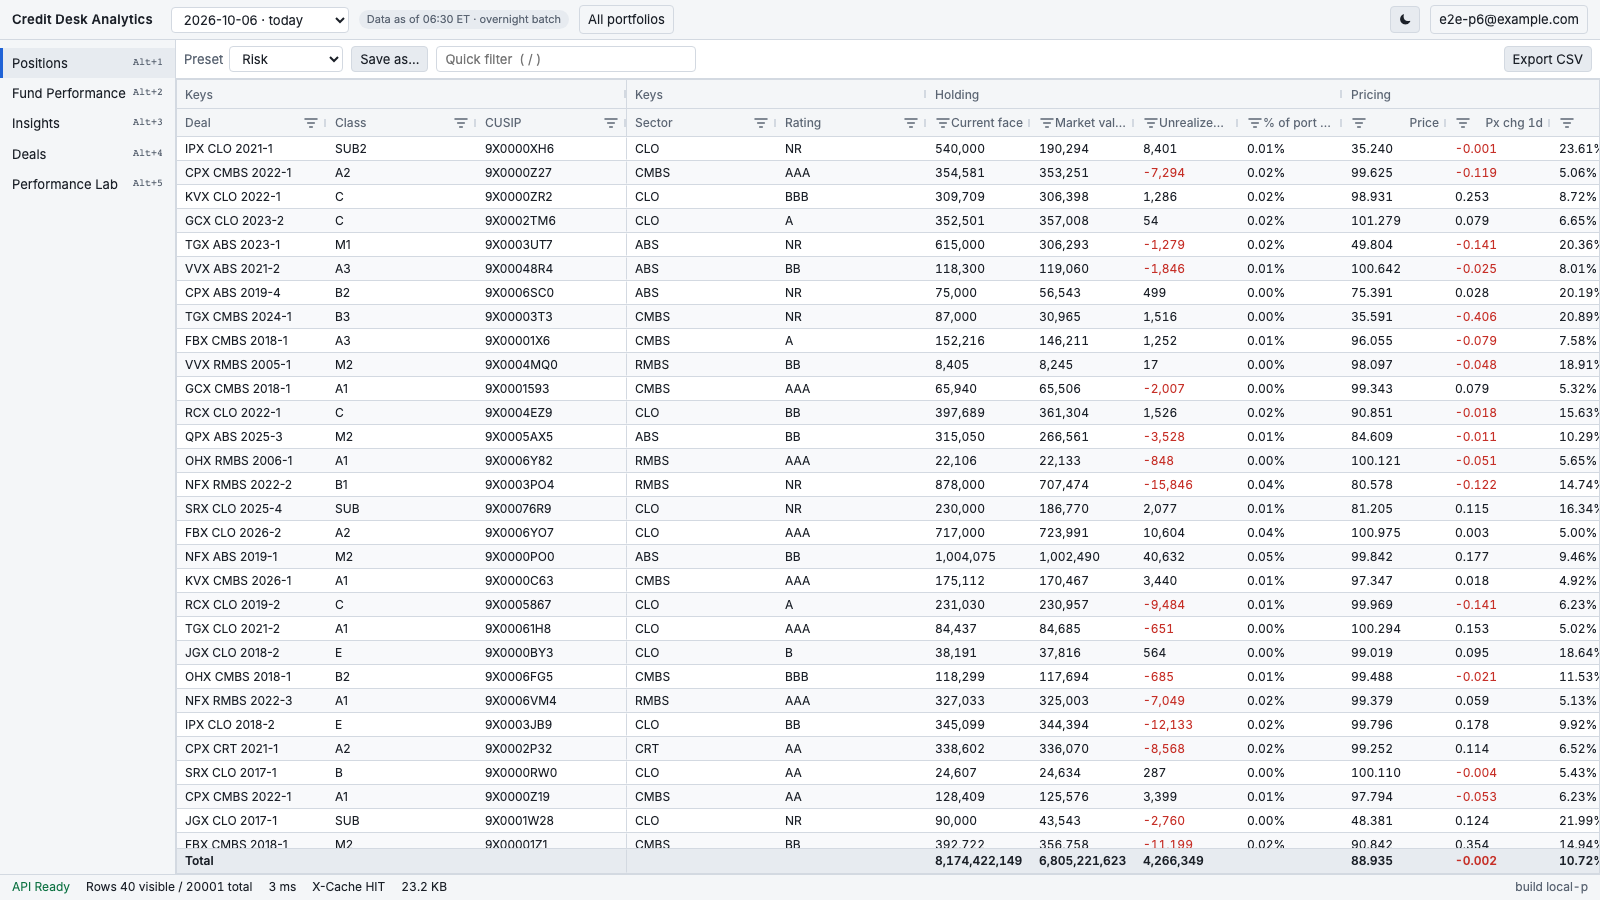
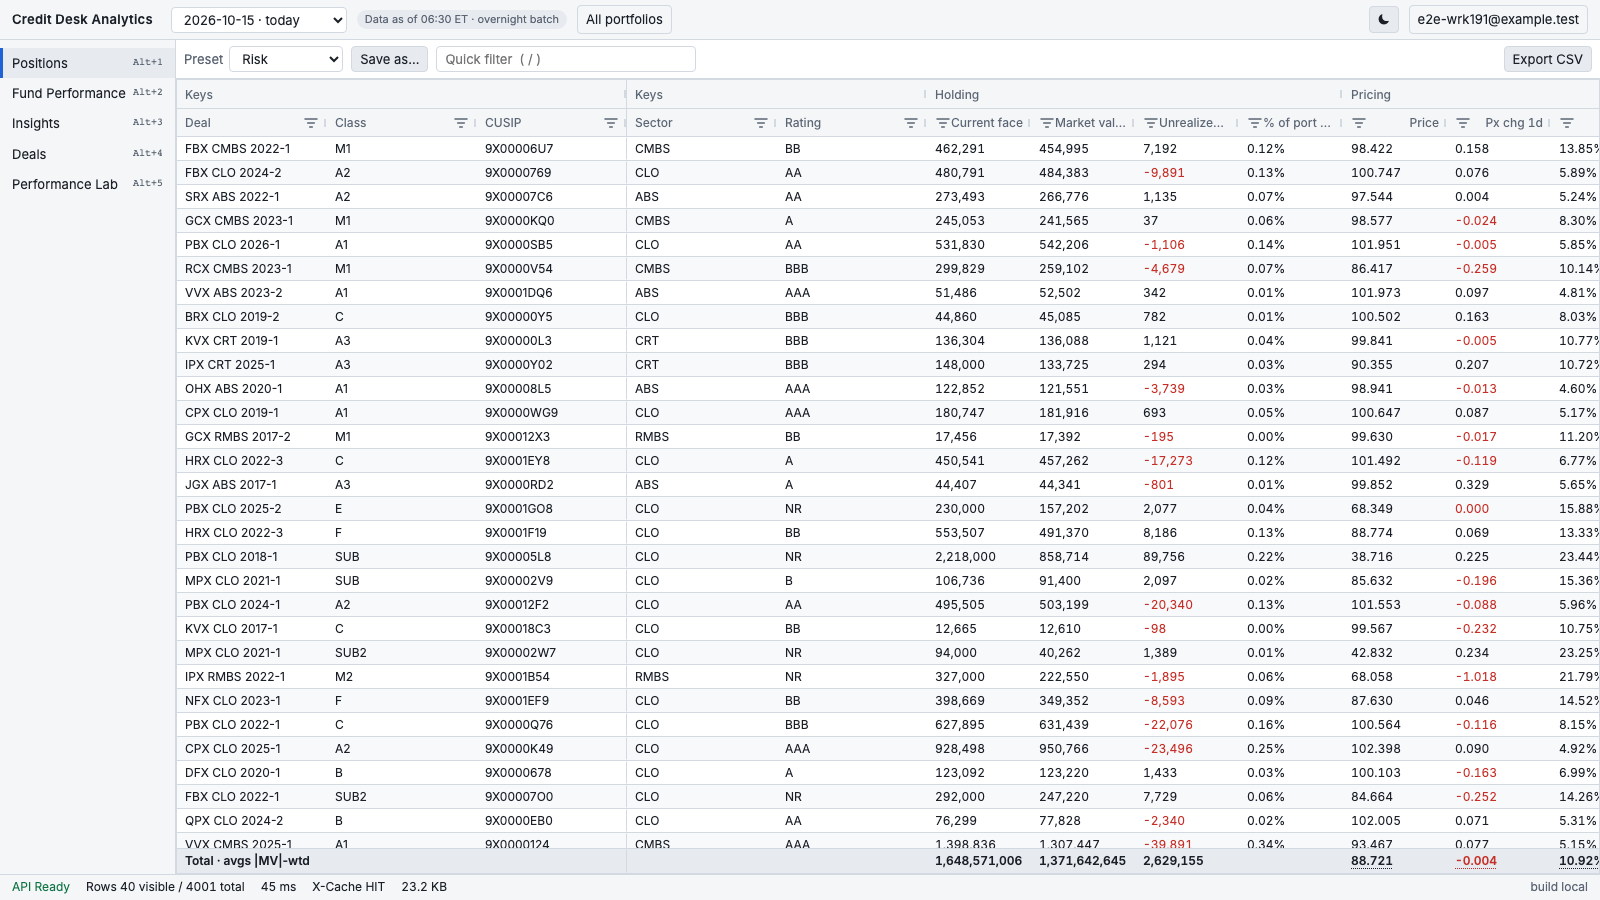
fix(web): label the summary row's averages as gross |MV|-weighted (#191) (#457)
* feat(web): label the Total row's averages as gross |MV|-weighted (#191)

The pinned Total row mixes net (signed) SUMs with averages weighted by
ABS(market_value). Per Helms (2026-10-16, #418 section A) the grid now
says so: the row reads "Total · avgs |MV|-wtd", each Total cell's tooltip
and each column header tooltip name the aggregation, and weighted Total
cells get a dotted underline that marks the tooltip.

* docs(readme): the summary row's sums are net and its averages gross |MV|-weighted (#191)

* test(e2e): the summary row reads "Total · avgs |MV|-wtd" and marks its weighted cells (#191)

* docs(screenshots): positions with the relabelled Total row, dark and light (#191)

---------

diff --git a/web/src/app/positions/column-defs.ts b/web/src/app/positions/column-defs.ts
@@ -1,5 +1,5 @@
-import type { CellClassParams, ColDef, ColGroupDef, ValueFormatterParams } from 'ag-grid-community';
-import { CatalogColumn } from '../data-access/api.types';
+import type { CellClassParams, ColDef, ColGroupDef, ITooltipParams, ValueFormatterParams } from 'ag-grid-community';
+import { Aggregation, CatalogColumn } from '../data-access/api.types';
 import { NegativeStyle, formatCell, fullPrecision, isNumeric } from '../core/format';
 
 /** Identity columns pinned to the left (README §6 P1). */
@@ -22,6 +22,22 @@ export function heat(value: unknown, base: unknown): Record<string, string> | nu
   return { backgroundColor: `color-mix(in srgb, var(${diff > 0 ? '--up' : '--down'}) ${pct}%, transparent)` };
 }
 
+/**
+ * The pinned Total row mixes net sums with gross averages (#191, Helms 2026-10-16): SUM columns are signed, so
+ * shorts net against longs, while every weighted average weighs rows by ABS(market_value) (README §8). The row label
+ * says so, and each Total cell and column header tooltip names its aggregation. Per-leg and face-weighted totals are
+ * a later P3.
+ */
+export const totalLabel = 'Total · avgs |MV|-wtd';
+
+export function totalNote(aggregation: Aggregation): string | null {
+  if (aggregation === 'WeightedByMarketValue') return 'Total: gross |MV|-weighted average';
+  if (aggregation === 'Sum') return 'Total: net (signed) sum';
+  return null;
+}
+
+const inTotal = (p: { node?: { rowPinned?: string | null } | null }): boolean => p.node?.rowPinned === 'bottom';
+
 function filterFor(c: CatalogColumn): string | false {
   if (c.kind === 'Text') return 'agTextColumnFilter';
   if (c.kind === 'Date') return 'agDateColumnFilter';
@@ -39,11 +55,13 @@ export function columnDefs(catalog: CatalogColumn[], negatives: () => NegativeSt
   for (const c of catalog) {
     if (internal.has(c.name)) continue;
     const numeric = isNumeric(c.kind);
+    const note = totalNote(c.aggregation);
+    const weighted = c.aggregation === 'WeightedByMarketValue';
     const def: ColDef = {
       colId: c.name,
       field: c.name,
       headerName: c.header,
-      headerTooltip: `${c.header} (${c.name})`,
+      headerTooltip: note ? `${c.header} (${c.name}). ${note}` : `${c.header} (${c.name})`,
       hide: true,
       sortable: true,
       filter: filterFor(c),
@@ -52,9 +70,18 @@ export function columnDefs(catalog: CatalogColumn[], negatives: () => NegativeSt
       type: numeric ? 'rightAligned' : undefined,
       width: numeric ? 104 : c.kind === 'Text' ? 150 : 110,
       valueFormatter: (p: ValueFormatterParams) => formatCell(c.kind, p.value, negatives()),
-      tooltip: (p) => fullPrecision(c.kind, p.value),
+      tooltip: (p: ITooltipParams) => {
+        const full = fullPrecision(c.kind, p.value);
+        if (!note || !inTotal(p)) return full;
+        return full ? `${full} (${note})` : note;
+      },
       cellClass: numeric ? 'num' : c.kind === 'Flag' ? 'flag' : undefined,
-      cellClassRules: numeric ? { neg: (p: CellClassParams) => typeof p.value === 'number' && p.value < 0 } : undefined,
+      cellClassRules: numeric
+        ? {
+            neg: (p: CellClassParams) => typeof p.value === 'number' && p.value < 0,
+            ...(weighted ? { wavg: (p: CellClassParams) => inTotal(p) } : {}),
+          }
+        : undefined,
       cellStyle: isScenario(c.name) ? (p: CellClassParams) => heat(p.value, p.data?.price) : undefined,
     };
     const list = groups.get(c.group) ?? [];

diff --git a/web/src/app/positions/column-defs.spec.ts b/web/src/app/positions/column-defs.spec.ts
@@ -1,6 +1,6 @@
 import type { ColDef } from 'ag-grid-community';
 import { CatalogColumn } from '../data-access/api.types';
-import { columnDefs, heat, isScenario } from './column-defs';
+import { columnDefs, heat, isScenario, totalLabel, totalNote } from './column-defs';
 
 const catalog: CatalogColumn[] = [
   { name: 'position_id', group: 'Keys', kind: 'Key', aggregation: 'None', header: 'Position' },
@@ -61,5 +61,31 @@ describe('columnDefs', () => {
     expect(heat(null, 100)).toBeNull();
     expect(heat(95, undefined)).toBeNull();
     expect(leaf('market_value').cellStyle).toBeUndefined();
+  });
+
+  it('labels the Total row: SUM columns are net, weighted averages are gross |MV|-weighted (#191)', () => {
+    expect(totalLabel).toBe('Total · avgs |MV|-wtd');
+    expect(totalNote('WeightedByMarketValue')).toBe('Total: gross |MV|-weighted average');
+    expect(totalNote('Sum')).toBe('Total: net (signed) sum');
+    expect(totalNote('None')).toBeNull();
+    expect(leaf('scn_rp100_sp50').headerTooltip).toBe('+100/+50 (scn_rp100_sp50). Total: gross |MV|-weighted average');
+    expect(leaf('market_value').headerTooltip).toBe('Market value (market_value). Total: net (signed) sum');
+    expect(leaf('deal_name').headerTooltip).toBe('Deal (deal_name)');
+
+    type Tip = (p: { value: unknown; node?: { rowPinned?: string | null } }) => string;
+    const avg = leaf('scn_rp100_sp50').tooltip as Tip;
+    const sum = leaf('market_value').tooltip as Tip;
+    const text = leaf('deal_name').tooltip as Tip;
+    expect(avg({ value: 97.25, node: { rowPinned: 'bottom' } })).toBe('97.25 (Total: gross |MV|-weighted average)');
+    expect(sum({ value: -12, node: { rowPinned: 'bottom' } })).toBe('-12 (Total: net (signed) sum)');
+    expect(avg({ value: null, node: { rowPinned: 'bottom' } })).toBe('Total: gross |MV|-weighted average');
+    expect(avg({ value: 97.25, node: { rowPinned: null } })).toBe('97.25');
+    expect(avg({ value: 97.25 })).toBe('97.25');
+    expect(text({ value: totalLabel, node: { rowPinned: 'bottom' } })).toBe(totalLabel);
+
+    const marked = leaf('scn_rp100_sp50').cellClassRules as Record<string, (p: { value: unknown; node?: { rowPinned?: string | null } }) => boolean>;
+    expect(marked['wavg']({ value: 1, node: { rowPinned: 'bottom' } })).toBe(true);
+    expect(marked['wavg']({ value: 1, node: { rowPinned: null } })).toBe(false);
+    expect((leaf('market_value').cellClassRules as Record<string, unknown>)['wavg']).toBeUndefined();
   });
 });

diff --git a/web/src/app/positions/positions.ts b/web/src/app/positions/positions.ts
@@ -10,7 +10,7 @@ import { StatusService } from '../core/status.service';
 import { ThemeService } from '../core/theme.service';
 import { Preset } from '../data-access/api.types';
 import { DeskApi } from '../data-access/desk-api';
-import { columnDefs } from './column-defs';
+import { columnDefs, totalLabel } from './column-defs';
 import { deskGridTheme, registerGridModules } from './grid-setup';
 import { PositionsQuery } from './positions-query';
 import { initialPreset, nextPreset, page, presetColumnState } from './presets';
@@ -101,7 +101,7 @@ export class Positions {
     effect(() => {
       const block = this.query.lastBlock();
       if (!block || !this.grid) return;
-      this.grid.setGridOption('pinnedBottomRowData', [{ position_id: -1, deal_name: 'Total', ...block.summary }]);
+      this.grid.setGridOption('pinnedBottomRowData', [{ position_id: -1, deal_name: totalLabel, ...block.summary }]);
       this.status.totalRows.set(block.rowCount);
     });
     effect(() => this.status.lastRequest.set(this.query.lastInfo()));

diff --git a/e2e/tests/positions.spec.ts b/e2e/tests/positions.spec.ts
@@ -15,8 +15,10 @@ test.describe('P1 positions (README §6 acceptance)', () => {
       await expect(page.locator(`[row-index="${total - 1}"]`).first()).toBeVisible({ timeout: 2_000 });
     }).toPass({ timeout: 30_000 });
 
-    // The summary row is pinned to the bottom; its label sits in the pinned-left identity column.
-    await expect(page.locator('.summary-row').getByText('Total', { exact: true })).toBeVisible();
+    // The summary row is pinned to the bottom; its label sits in the pinned-left identity column and says the
+    // averages are gross |MV|-weighted (#191).
+    await expect(page.locator('.summary-row').getByText('Total · avgs |MV|-wtd', { exact: true })).toBeVisible();
+    await expect(page.locator('.summary-row .wavg').first()).toBeVisible(); // Risk shows weighted columns
     expect(errors).toEqual([]);
   });
 

diff --git a/web/src/app/positions/positions.spec.ts b/web/src/app/positions/positions.spec.ts
@@ -215,7 +215,7 @@ describe('Positions page', () => {
     query.lastBlock.set({ columns: [], data: [], rowCount: 42, summary: { dv01: 9 }, asOf: 'x', generatedAt: 'x' });
     query.lastInfo.set({ ms: 5, cache: 'HIT', bytes: 10, serverMs: 1 });
     await fixture.whenStable();
-    expect(grid.setGridOption).toHaveBeenCalledWith('pinnedBottomRowData', [{ position_id: -1, deal_name: 'Total', dv01: 9 }]);
+    expect(grid.setGridOption).toHaveBeenCalledWith('pinnedBottomRowData', [{ position_id: -1, deal_name: 'Total · avgs |MV|-wtd', dv01: 9 }]);
     expect(TestBed.inject(StatusService).totalRows()).toBe(42);
     expect(TestBed.inject(StatusService).lastRequest()?.cache).toBe('HIT');
 

diff --git a/web/src/app/positions/positions.scss b/web/src/app/positions/positions.scss
@@ -8,4 +8,6 @@
 .skeleton { flex: 1; margin: 8px; background: linear-gradient(90deg, var(--surface-2), var(--surface-3), var(--surface-2)); opacity: 0.6; }
 :host ::ng-deep .neg { color: var(--down); }
 :host ::ng-deep .summary-row { font-weight: 600; background: var(--surface-3); }
+// A gross |MV|-weighted average in the Total row (#191): the dotted underline marks the tooltip that says so.
+:host ::ng-deep .summary-row .wavg { text-decoration: underline dotted; text-underline-offset: 3px; }
 :host ::ng-deep .num, :host ::ng-deep .ag-header-cell { font-variant-numeric: tabular-nums; }

diff --git a/README.md b/README.md
@@ -296,7 +296,7 @@ Every page lists: **user story**, **API contract**, **SQL approach**, **front-en
 - AG Grid Community, `rowModelType: 'infinite'`, `cacheBlockSize: 200`, `maxBlocksInCache: 50`, `blockLoadDebounceMillis: 100`.
 - **Column virtualization on** (the default; never disable it).
 - `getRowId` = position_id.
-- Pinned left: deal_name, class, cusip. A pinned **bottom summary row**.
+- Pinned left: deal_name, class, cusip. A pinned **bottom summary row**, labelled `Total · avgs |MV|-wtd`: its SUM cells are net (signed) and its averages are gross, weighted by \|market value\| (§8). Each Total cell's tooltip and each column header's tooltip name the aggregation (#191). Per-leg (long/short) and face-weighted totals are deferred to a later P3.
 - **Column presets:** per-user saved column state (order, width, visibility, pinned, sort, filters), loaded before the first request. Several named presets per user ("Risk", "Surveillance", "Scenarios", "All").
 - **Only the displayed columns are requested.** When the displayed column set changes (show/hide or preset switch), purge the infinite cache and re-request. For horizontal scrolling inside the displayed set, no request is needed.
 - **Quick filter box:** debounced at 300 ms, with `distinctUntilChanged` + `switchMap`, so a stale request is cancelled and can never overwrite a newer one.
@@ -587,7 +587,7 @@ The **website is public** (anyone can reach the login page). The **data is not**
     - `ExecuteUpdateAsync` / `ExecuteDeleteAsync` for set-based writes.
     - Scoped lifetime per request; a factory for anything parallel or singleton-owned (no captive dependencies).
   - **Every async call takes the request's `CancellationToken`.** No `.Result`, `.Wait()` or `async void`.
-  - **Money is `decimal`** (`numeric` in SQL). Rounding happens only at the display edge. Weighted averages weigh each row by `ABS(market_value)`, the position's size, so shorts can't cancel longs (#131). Rows where the measure is `NULL` don't count toward the weight, and zero or no weight returns `null`, never `NaN`. `NaN` can't reach the summary: `market_value` and every column the summary sums or weights reject `'NaN'` at write time (CHECK constraints `ck_snapshot_<column>_not_nan` on the `numeric` columns, #192), the `float8` ones reject `'NaN'` and `±'Infinity'` (`ck_snapshot_<column>_finite`, #304), and a test fails if a new summed or weighted catalog column isn't guarded. SUM columns (`market_value`, `dv01`, `cs01`, `pnl_*`, …) stay signed (net).
+  - **Money is `decimal`** (`numeric` in SQL). Rounding happens only at the display edge. Weighted averages weigh each row by `ABS(market_value)`, the position's size, so shorts can't cancel longs (#131). Rows where the measure is `NULL` don't count toward the weight, and zero or no weight returns `null`, never `NaN`. `NaN` can't reach the summary: `market_value` and every column the summary sums or weights reject `'NaN'` at write time (CHECK constraints `ck_snapshot_<column>_not_nan` on the `numeric` columns, #192), the `float8` ones reject `'NaN'` and `±'Infinity'` (`ck_snapshot_<column>_finite`, #304), and a test fails if a new summed or weighted catalog column isn't guarded. SUM columns (`market_value`, `dv01`, `cs01`, `pnl_*`, …) stay signed (net). So the summary row mixes net sums with gross averages, and the grid labels it that way (§6 P1, #191).
 - **Serialization:**
   - Columnar DTOs (`columns` + `data[c][r]`).
   - `System.Text.Json` source generation for hot DTOs.
